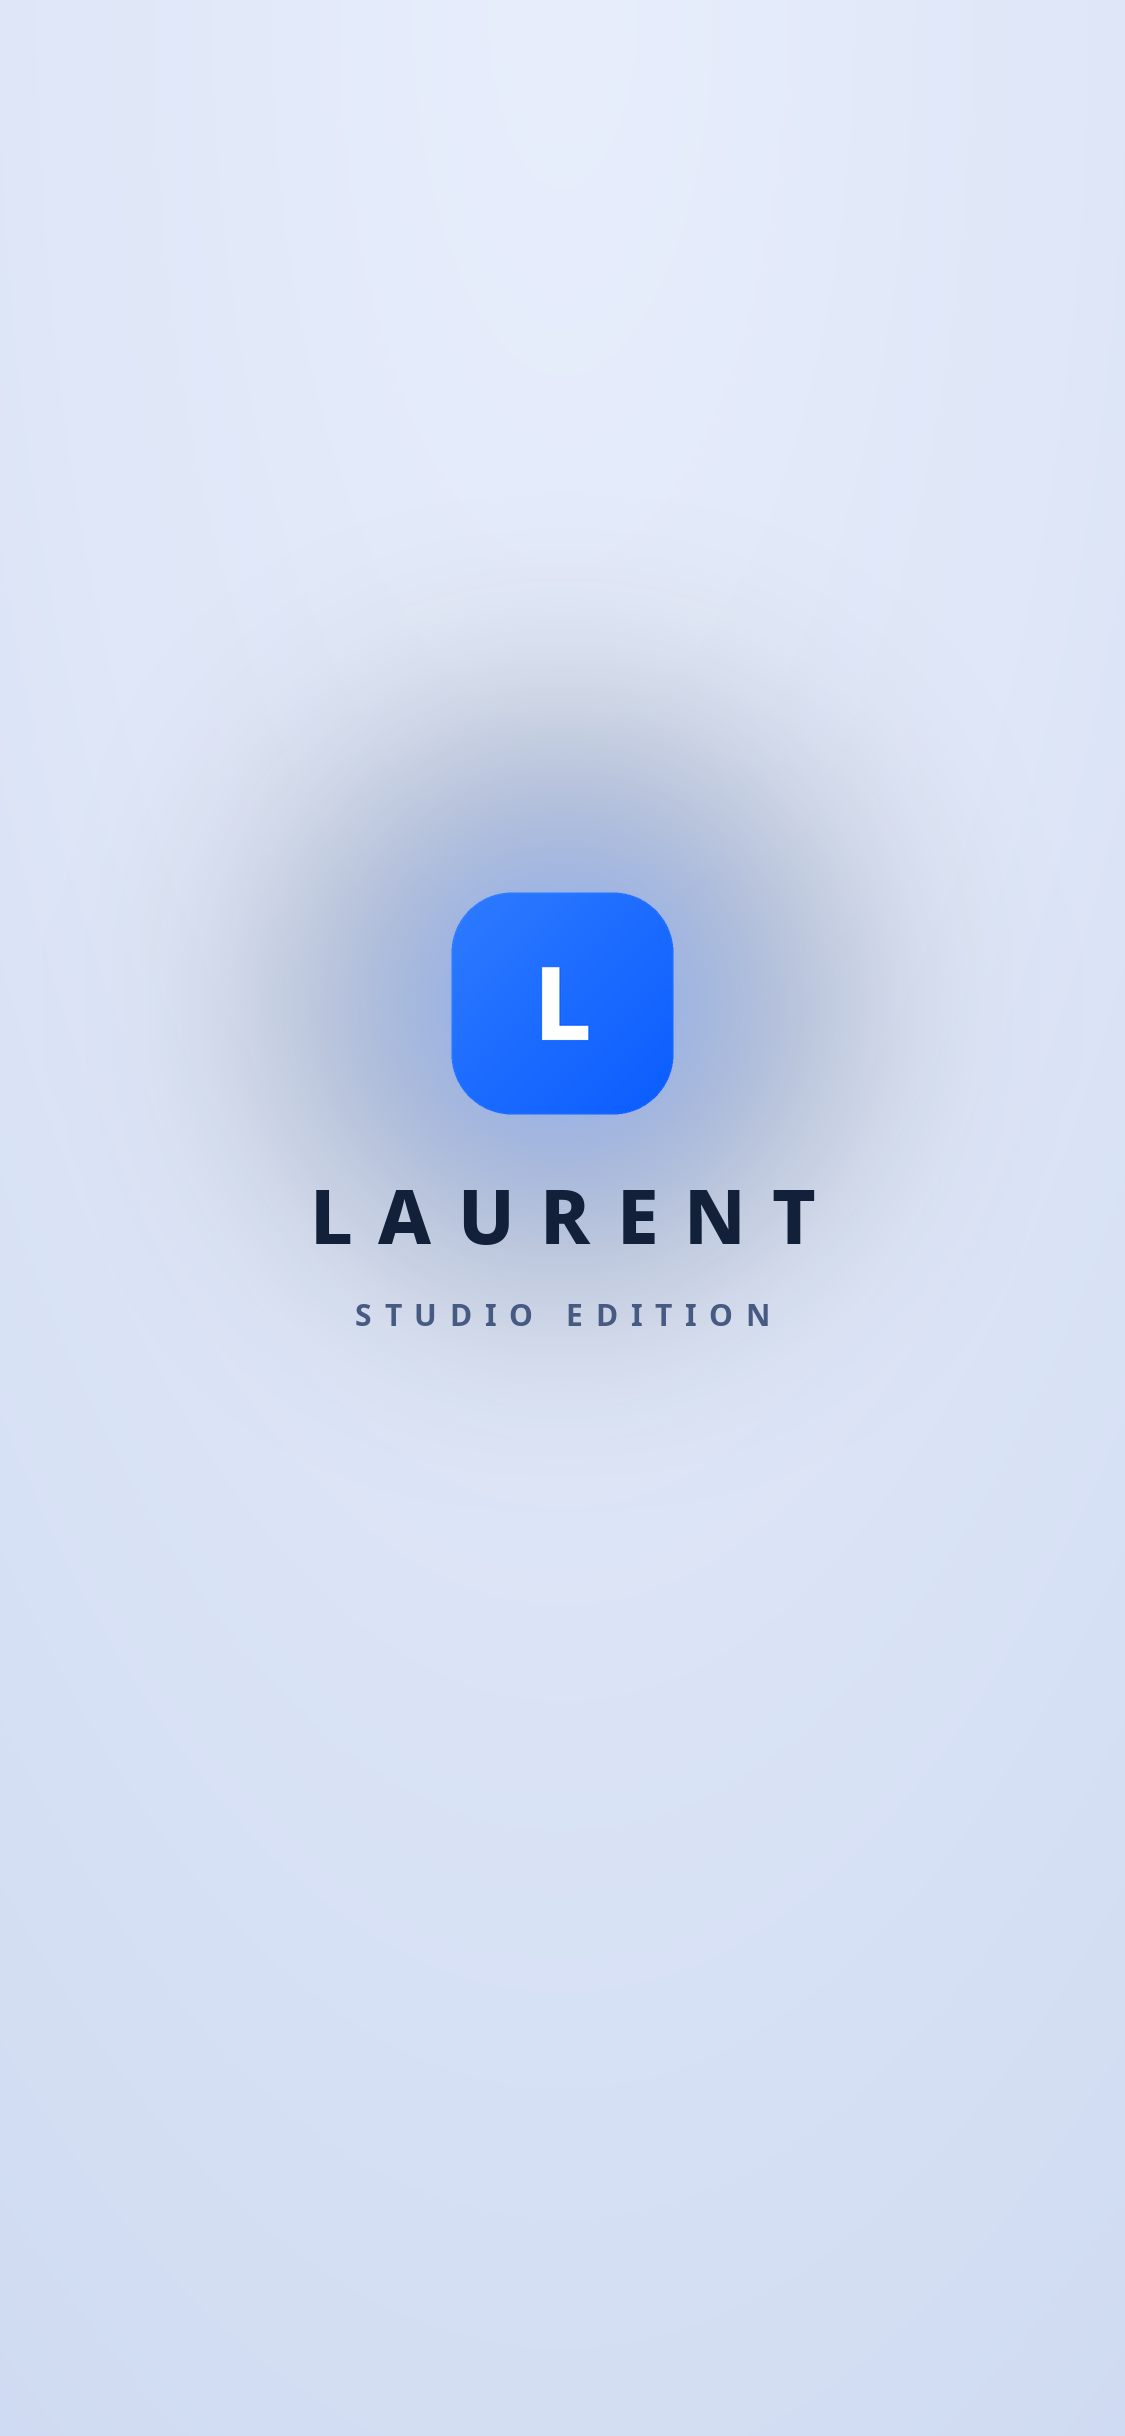
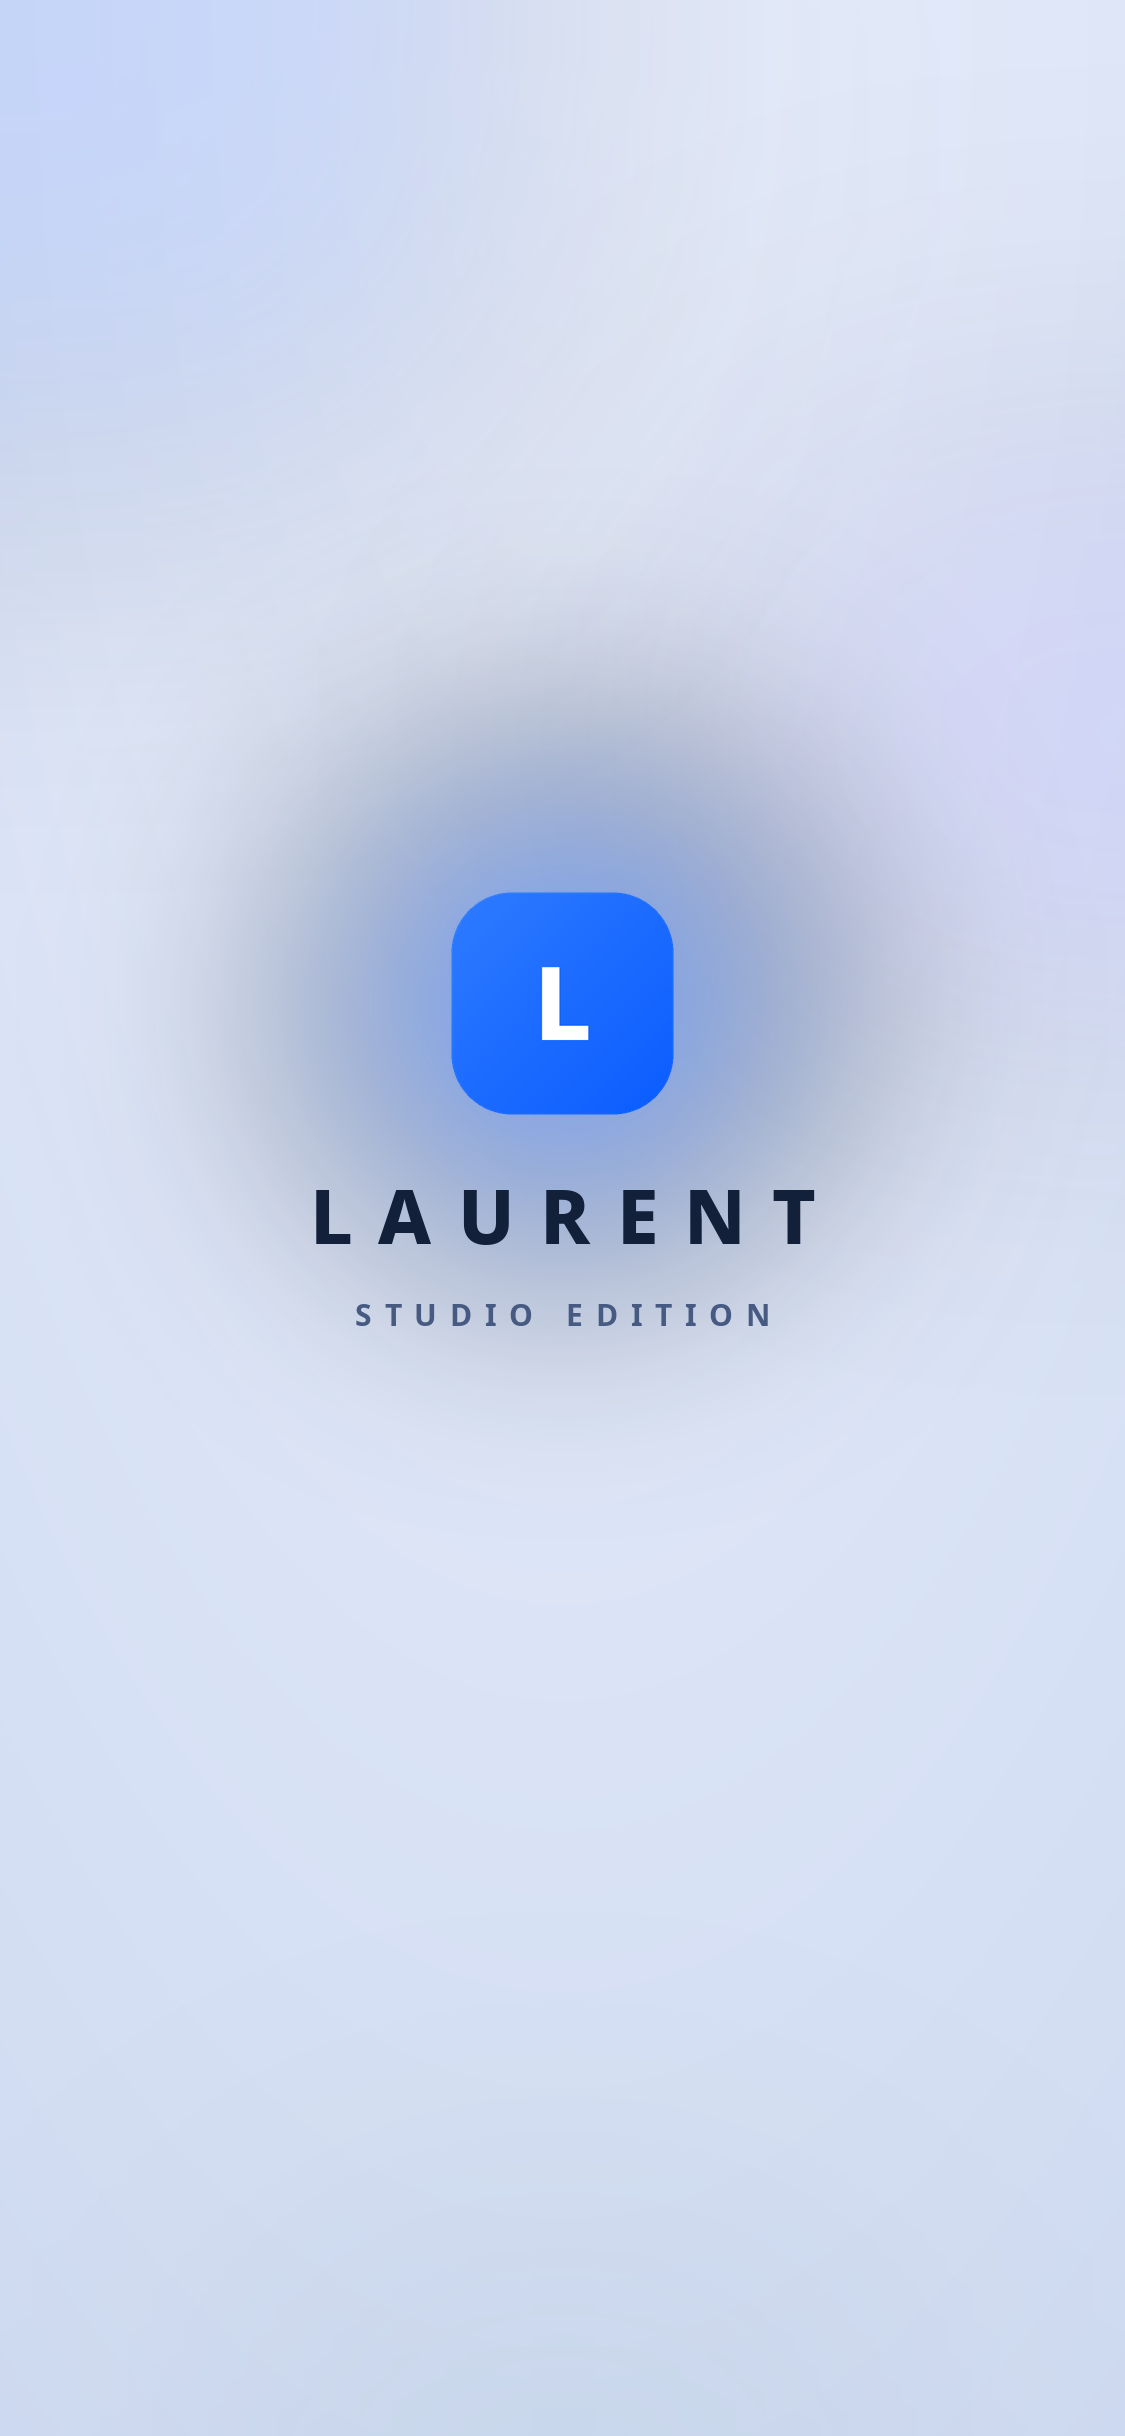
Update index.html and sw.js

Changed region(s): [[0.0, 0.0, 0.2489, 0.0936]]

diff --git a/index.html b/index.html
@@ -12,12 +12,12 @@
     /* Critical Zero-Flash Boot Splash CSS — placed first in <head> */
     html, body { background-color: #07090e; margin: 0; padding: 0; }
     html[data-theme="light"], html[data-theme="light"] body { background-color: #dfe7f8; }
-    .splash { position: fixed; inset: 0; z-index: 400; display: flex; align-items: center; justify-content: center; padding-bottom: 8.5vh; background: radial-gradient(120% 90% at 50% 0%, #141f38 0%, #090e1a 55%, #07090e 100%); transition: opacity 0.34s ease, visibility 0.34s; will-change: opacity; }
-    [data-theme="light"] .splash { background: radial-gradient(120% 90% at 50% 0%, #e8eefc 0%, #dfe7f8 55%, #cfdbf2 100%); }
+    .splash { position: fixed; inset: 0; z-index: 400; display: flex; align-items: center; justify-content: center; padding-bottom: 8.5vh; background: radial-gradient(62% 44% at 16% 6%, rgba(64, 120, 255, 0.20) 0%, rgba(64, 120, 255, 0) 70%), radial-gradient(56% 42% at 88% 30%, rgba(124, 92, 255, 0.13) 0%, rgba(124, 92, 255, 0) 70%), radial-gradient(72% 52% at 50% 110%, rgba(48, 160, 190, 0.10) 0%, rgba(48, 160, 190, 0) 70%), radial-gradient(120% 90% at 50% 0%, #141f38 0%, #090e1a 55%, #07090e 100%); transition: opacity 0.34s ease, visibility 0.34s; will-change: opacity; }
+    [data-theme="light"] .splash { background: radial-gradient(62% 44% at 16% 6%, rgba(64, 120, 255, 0.16) 0%, rgba(64, 120, 255, 0) 70%), radial-gradient(56% 42% at 88% 30%, rgba(124, 92, 255, 0.10) 0%, rgba(124, 92, 255, 0) 70%), radial-gradient(72% 52% at 50% 110%, rgba(48, 160, 190, 0.08) 0%, rgba(48, 160, 190, 0) 70%), radial-gradient(120% 90% at 50% 0%, #e8eefc 0%, #dfe7f8 55%, #cfdbf2 100%); }
     .splash.bye { opacity: 0; visibility: hidden; pointer-events: none; }
     .splash-core { display: flex; flex-direction: column; align-items: center; gap: 14px; transition: transform 0.34s ease; }
     .splash.bye .splash-core { transform: scale(0.97); }
-    .splash-badge { position: relative; width: 74px; height: 74px; margin-bottom: 12px; border-radius: 20px; background: linear-gradient(145deg, #2f7bff, #0a5cff); color: #fff; font-family: -apple-system, BlinkMacSystemFont, "Helvetica Neue", Arial, sans-serif; font-size: 34px; font-weight: 800; display: flex; align-items: center; justify-content: center; box-shadow: 0 18px 44px rgba(10, 92, 255, 0.42), inset 0 1px 0 rgba(255, 255, 255, 0.45); will-change: transform, opacity; }
+    .splash-badge { position: relative; width: 74px; height: 74px; margin-bottom: 12px; border-radius: 20px; background: linear-gradient(145deg, #2f7bff, #0a5cff); color: #fff; font-family: -apple-system, BlinkMacSystemFont, "Helvetica Neue", Arial, sans-serif; font-size: 34px; font-weight: 800; display: flex; align-items: center; justify-content: center; box-shadow: 0 18px 44px rgba(10, 92, 255, 0.42), 0 0 88px rgba(47, 123, 255, 0.38), inset 0 1px 0 rgba(255, 255, 255, 0.45); will-change: transform, opacity; }
     .splash.play .splash-badge { animation: splashBadge 0.55s ease-out both; }
     /* No ring: Laurent found its expanding outline flashy, and
        the frozen ring baked into the startup images never
@@ -31,7 +31,7 @@
     .splash-sub { font-family: -apple-system, BlinkMacSystemFont, "Helvetica Neue", Arial, sans-serif; font-size: 10px; font-weight: 700; letter-spacing: 0.42em; margin-right: -0.42em; color: rgba(160, 178, 214, 0.85); will-change: transform, opacity; }
     .splash.play .splash-sub { animation: splashSub 0.62s ease 0.24s both; }
     [data-theme="light"] .splash-sub { color: rgba(70, 90, 130, 0.8); }
-    @keyframes splashBadge { from { opacity: 0; } to { opacity: 1; } }
+    @keyframes splashBadge { from { opacity: 0; transform: scale(0.94); } to { opacity: 1; transform: scale(1); } }
     @keyframes splashWord { from { opacity: 0; transform: translateY(7px); } to { opacity: 1; transform: translateY(0); } }
     @keyframes splashSub { from { opacity: 0; transform: translateY(5px); } to { opacity: 1; transform: translateY(0); } }
     /* Splash exit flight: overlay + wordmark fade while a clone of the
@@ -3877,6 +3877,19 @@
     #tunerPanel { min-height: 0; }
     #tunerPanel .data-card { flex: 1 1 auto; min-height: 0; }
     #tunerPanel .trace-wrap { flex: 1 1 auto; min-height: 52px; }
+    /* ==== v17: motion returns ====
+       The beat dot swells on the same --pulse envelope that
+       drives its light (fast strike, tempo decay): scale is
+       derived from the variable, so there is no extra JS and
+       the pop can never drift out of sync with the glow. */
+    .beat-pillar .beat-dot { transform: scale(calc(1 + var(--lit, 0) * 0.12)); }
+    /* While the metronome runs, START breathes almost
+       imperceptibly — alive, never busy. */
+    @keyframes metroRunBreathe { from { filter: brightness(1); } to { filter: brightness(1.09); } }
+    @media (prefers-reduced-motion: no-preference) {
+      #btnToggleMetro.primary-active { animation: metroRunBreathe 1.5s ease-in-out infinite alternate; }
+    }
+
     /* ==== v16: metro bottom, Laurent's reference frame ====
        Measured against the frame he approved: the lower half
        is one settled block — preset strip, option tiles, wide
@@ -6437,10 +6450,37 @@
       }
       haptic(8);
       uiSound(adding ? "switch" : "tick");
+      if (adding) burstStar(btn);
       renderFavoritesBar();
       requestAnimationFrame(() => saveCurrentUserProfile());
     }
-    function burstStar() {}
+    // Lighting a favorite earns a small celebration: the star pops
+    // and six sparks fly — once, on the tap, never ambient motion.
+    // (Restored in v17 at Laurent's request: a later refactor had
+    // stubbed this body out while its .burst-dot CSS survived.)
+    function burstStar(btn) {
+      if (!btn || !btn.animate) return;
+      btn.classList.add("burst-host");
+      btn.animate(
+        [{ transform: "scale(1)" }, { transform: "scale(1.28)", offset: 0.35 }, { transform: "scale(1)" }],
+        { duration: 300, easing: "cubic-bezier(0.34, 1.56, 0.64, 1)" }
+      );
+      for (let i = 0; i < 6; i++) {
+        const dot = document.createElement("span");
+        dot.className = "burst-dot";
+        btn.appendChild(dot);
+        const ang = (Math.PI * 2 * i) / 6 + 0.4;
+        const dist = 20 + (i % 2) * 6;
+        const anim = dot.animate(
+          [
+            { transform: "translate(-50%, -50%) translate(0px, 0px) scale(1)", opacity: 1 },
+            { transform: `translate(-50%, -50%) translate(${(Math.cos(ang) * dist).toFixed(1)}px, ${(Math.sin(ang) * dist).toFixed(1)}px) scale(0.4)`, opacity: 0 }
+          ],
+          { duration: 480, delay: 100, easing: "cubic-bezier(0.22, 1, 0.36, 1)", fill: "forwards" }
+        );
+        anim.onfinish = () => dot.remove();
+      }
+    }
 
     // Horizontal swipe on the tuner stage steps through favorites —
     // rehearsal-speed switching without opening the library. The

diff --git a/sw.js b/sw.js
@@ -5,7 +5,7 @@
    launches work reliably. Navigation fetches revalidate with the
    server (no-cache) so an HTTP-cached stale page can never shadow
    a fresh deploy. */
-const CACHE = "laurent-tuner-v16";
+const CACHE = "laurent-tuner-v17";
 const STATIC = [
   "./",
   "./index.html",
